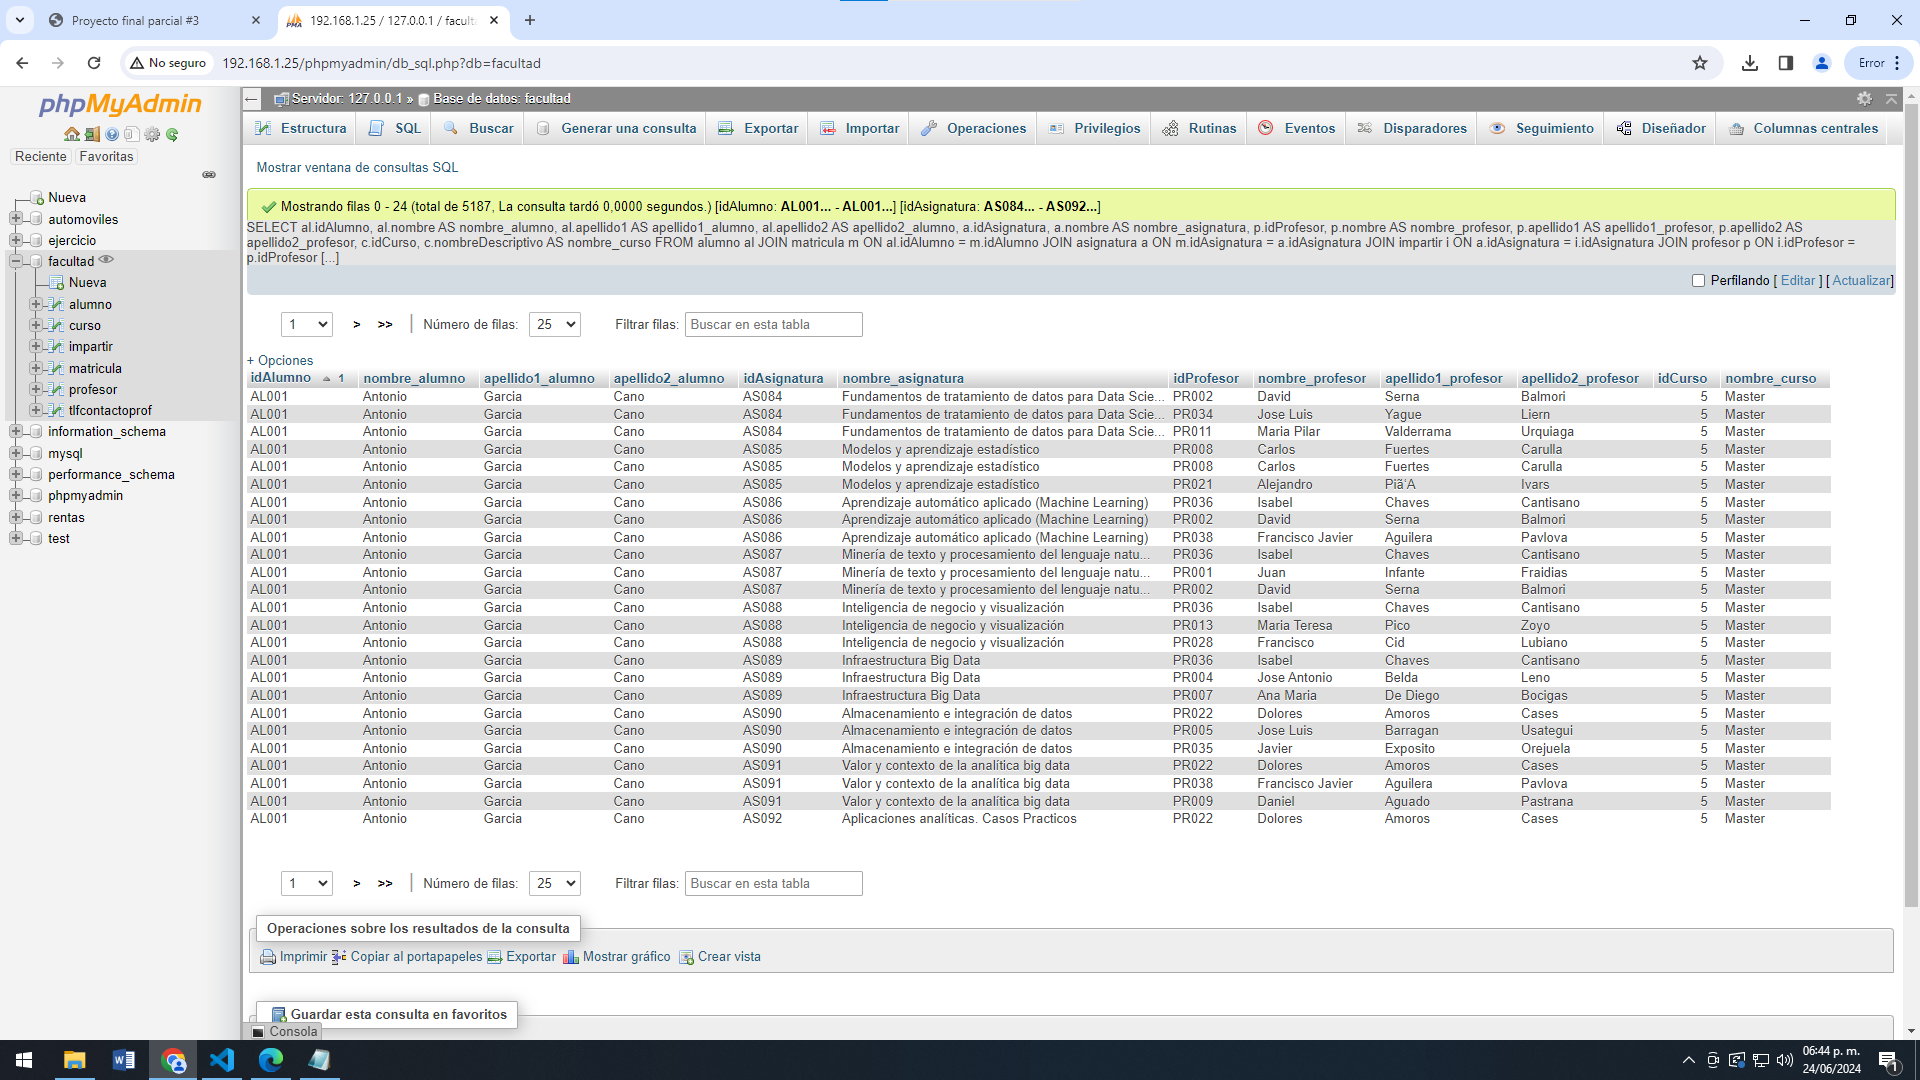
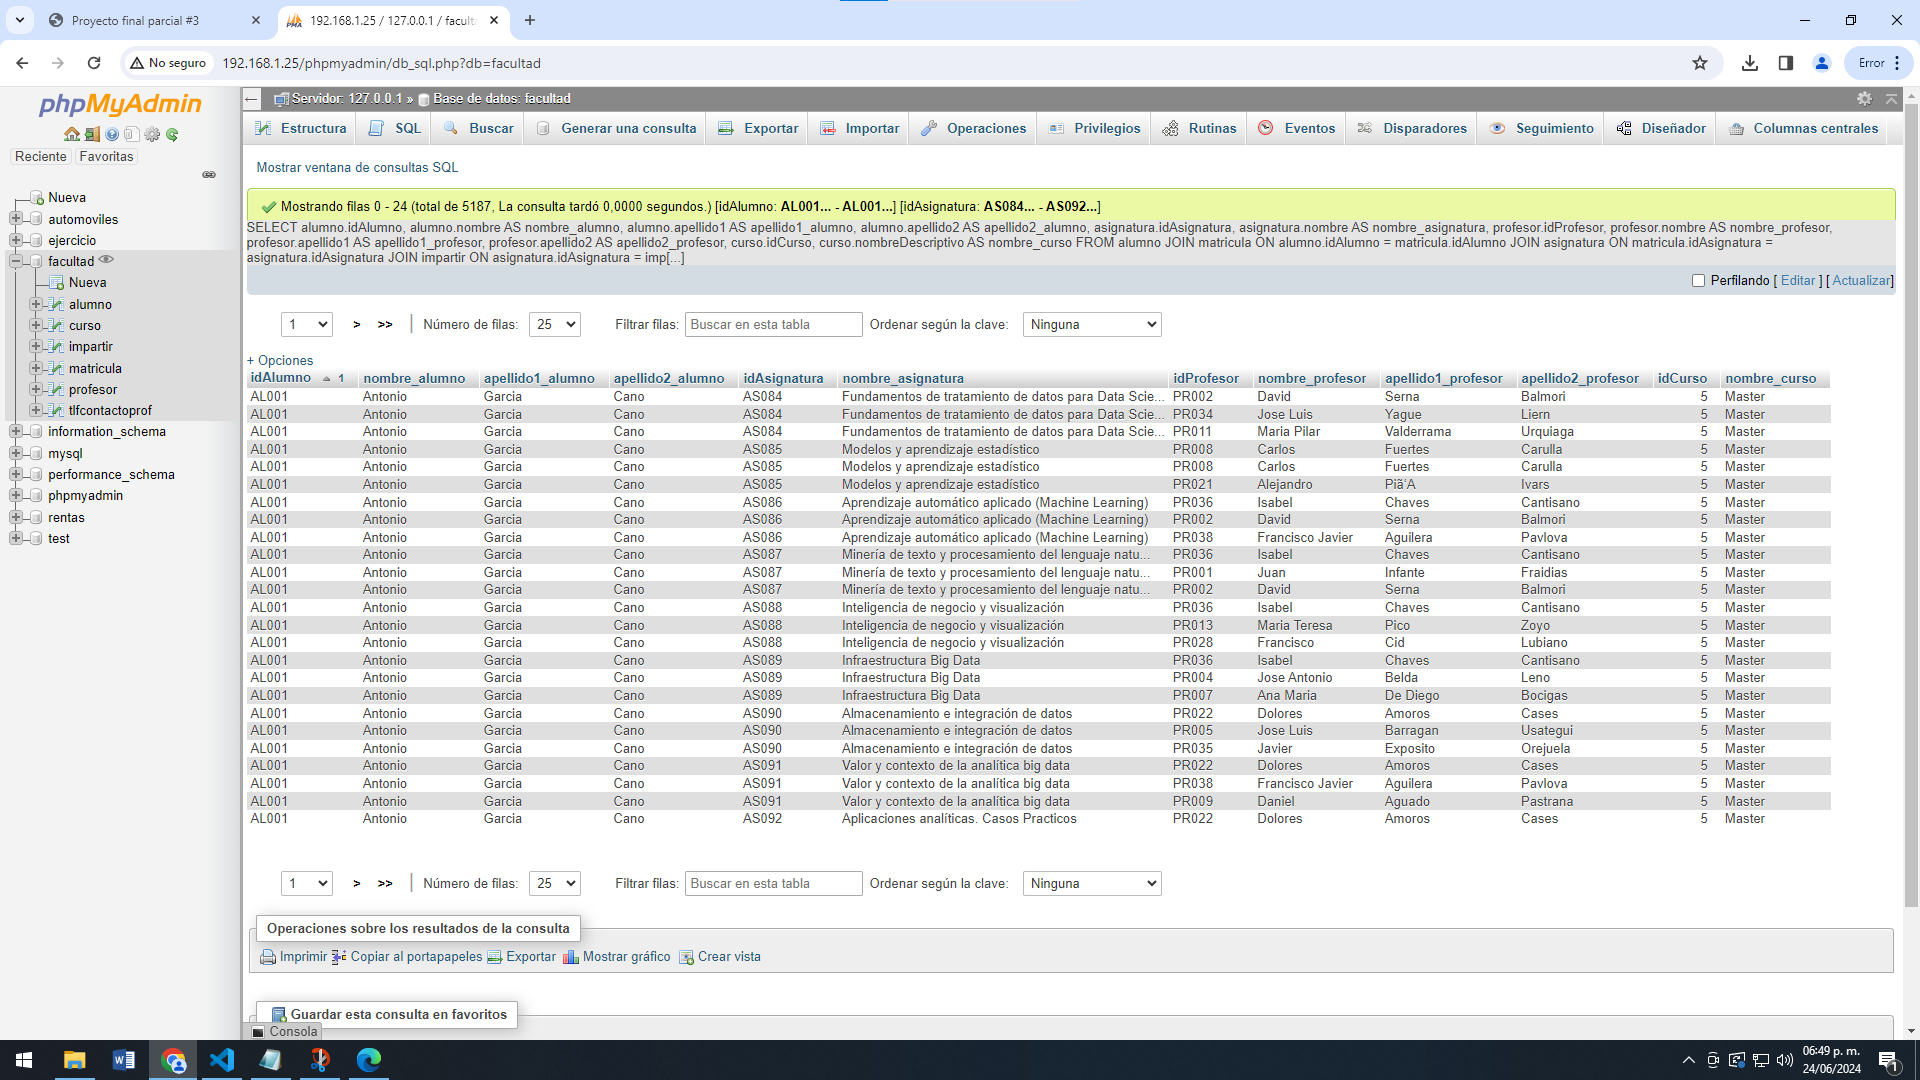
Add files via upload

diff --git a/Parcial 3/proyectofinal/index.html b/Parcial 3/proyectofinal/index.html
@@ -101,11 +101,26 @@
               </div>
               <div class="carousel-item">
                 <div class="alert alert-primary" role="alert">
-                  SELECT al.idAlumno, al.nombre AS nombre_alumno, al.apellido1 AS apellido1_alumno, al.apellido2 AS apellido2_alumno, a.idAsignatura, <br>
-                  a.nombre AS nombre_asignatura, p.idProfesor,p.nombre AS nombre_profesor, p.apellido1 AS apellido1_profesor, p.apellido2 AS apellido2_profesor, <br>
-                  c.idCurso, c.nombreDescriptivo AS nombre_curso FROM alumno al JOIN matricula m ON al.idAlumno = m.idAlumno JOIN asignatura a ON m.idAsignatura = a.idAsignatura <br>
-                  JOIN impartir i ON a.idAsignatura = i.idAsignatura JOIN profesor p ON i.idProfesor = p.idProfesor JOIN curso c ON a.curso = c.idCurso <br>
-                  ORDER BY al.idAlumno, a.idAsignatura;
+                  SELECT 
+                    alumno.idAlumno, 
+                    alumno.nombre AS nombre_alumno, 
+                    alumno.apellido1 AS apellido1_alumno, 
+                    alumno.apellido2 AS apellido2_alumno, 
+                    asignatura.idAsignatura, 
+                    asignatura.nombre AS nombre_asignatura, 
+                    profesor.idProfesor,
+                    profesor.nombre AS nombre_profesor, 
+                    profesor.apellido1 AS apellido1_profesor, 
+                    profesor.apellido2 AS apellido2_profesor, 
+                    curso.idCurso, 
+                    curso.nombreDescriptivo AS nombre_curso 
+                    FROM alumno JOIN matricula  ON alumno.idAlumno = matricula.idAlumno 
+                    JOIN asignatura  ON matricula.idAsignatura = asignatura.idAsignatura 
+                    JOIN impartir  ON asignatura.idAsignatura = impartir.idAsignatura 
+                    JOIN profesor  ON impartir.idProfesor = profesor.idProfesor 
+                    JOIN curso  ON asignatura.curso = curso.idCurso 
+                    ORDER BY 
+                    alumno.idAlumno, asignatura.idAsignatura
                 </div>
                 <img src="Consulta 10.png" class="d-block w-100" alt="...">
                 <p style="color: white;">Obtener listado de alumnos con asignaturas que cursan, profesor que las imparte y curso a que pertenecen.</p>
